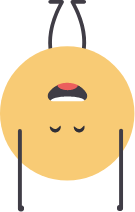
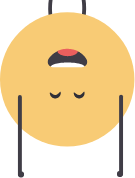
onboarding screen 2 done no background

diff --git a/app/src/app/components/onboarding/onboarding2/onboarding2.component.css b/app/src/app/components/onboarding/onboarding2/onboarding2.component.css
@@ -3,8 +3,20 @@ body{
 }
 
 .skip{
-    text-align: right;
+    display: flex;
+    justify-content: space-between;
 }
+
+.circle{
+    margin-left: 10%;
+}
+
+.button{
+    margin-top: 5%;
+    margin-right: 10%;
+    width: auto;
+}
+
 .skipbutton{
     background-color: white;
     border: none;
@@ -13,22 +25,22 @@ body{
     font-size: 18px;
     font-weight: 550;
     color: #403D46;
-    box-shadow: 0px 2px 2px 0px rgba(0, 0, 0, 0.20);
-    padding: 1% 4% 1% 4%;
-    margin-top: 5%;
-    margin-right: 5%;
+    box-shadow: 0px 2px 2px 0px rgba(0, 0, 0, 0.20); 
+    margin: auto;
+    width: 135%;
+    height: 21%;
 }
 
 .content{
     text-align: center;
-    margin: 50% auto auto auto;
+    margin: 40% auto auto auto;
 
 }
 
 .bottom-bar{
     display: grid;
     justify-content: space-between;
-    margin: 30% 7% auto 7%;
+    margin: 75% 7% auto 7%;
   }
   
   .prev{

diff --git a/app/src/app/components/onboarding/onboarding2/onboarding2.component.html b/app/src/app/components/onboarding/onboarding2/onboarding2.component.html
@@ -1,9 +1,13 @@
 <body>
     <div class="skip">
-        <button class="skipbutton">SKIP</button>
+        <div class="circle">
+            <img src="../../../../assets/onboarding/circle.png">
+        </div>
+        <div class="button">
+            <button class="skipbutton">SKIP</button>
+        </div>
     </div>
     <div class="content">
-        <img src="../../../../assets/onboarding/circle.png">
         <h1>Bekijk je positieve <br> highlights!</h1>
     </div>
     <div class="bottom-bar">

diff --git a/app/src/app/components/onboarding/onboarding1/onboarding1.component.html b/app/src/app/components/onboarding/onboarding1/onboarding1.component.html
@@ -3,7 +3,7 @@
         <button class="skipbutton">SKIP</button>
     </div>
     <div class="content">
-        <h1>Houd elke dag je <br> mentale <br> gezondheid bij.</h1>
+        <h1>Houd elke dag <br>je mentale <br> gezondheid bij.</h1>
         <div class="square">
             <img src="../../../../assets/onboarding/square.png">
         </div>
